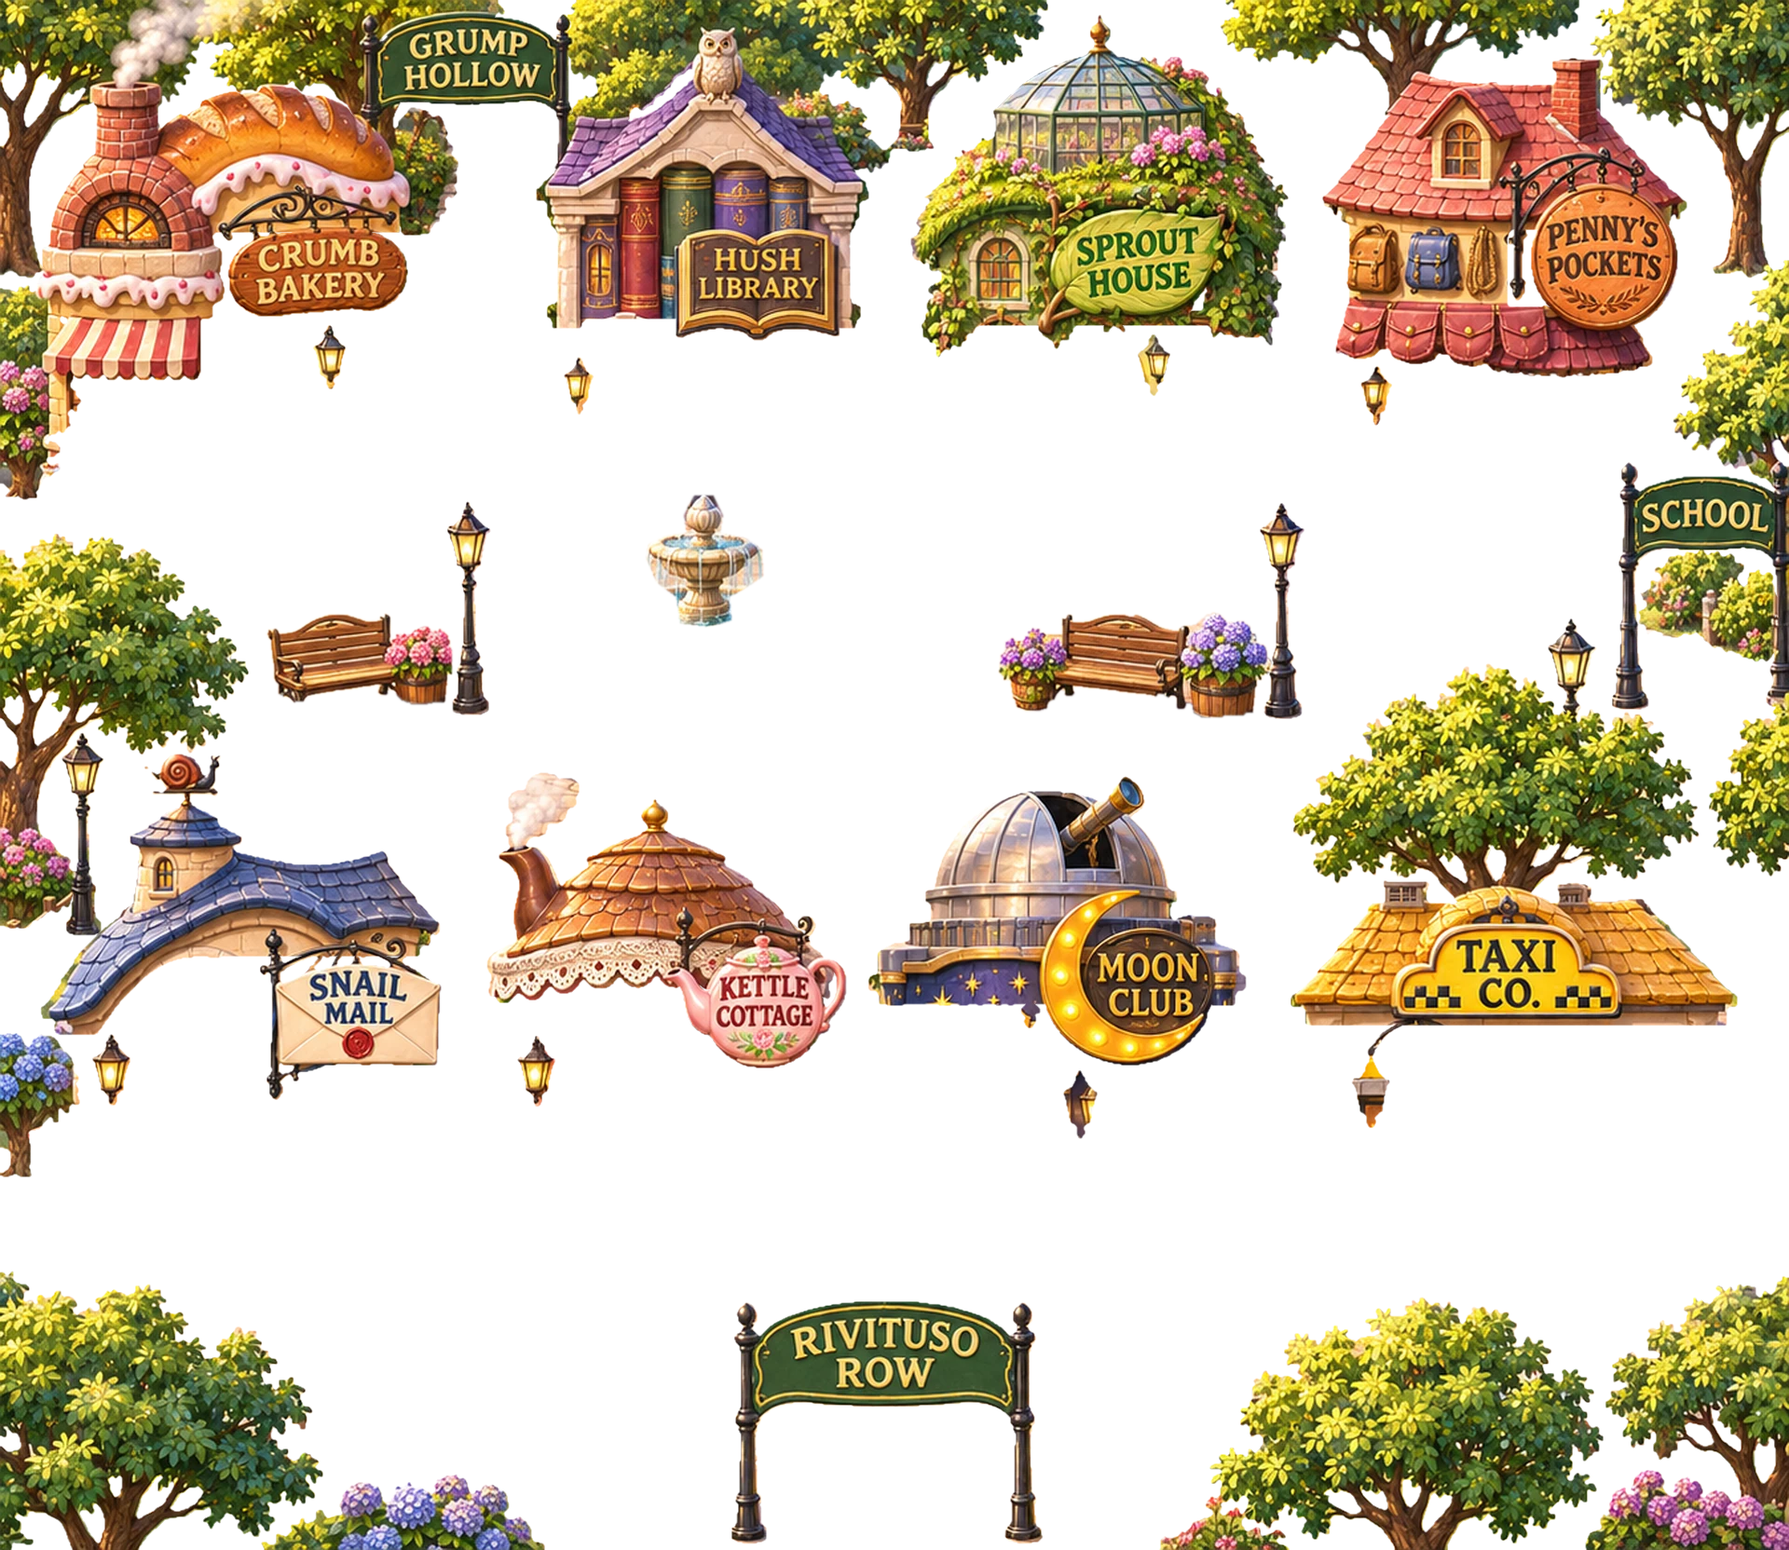
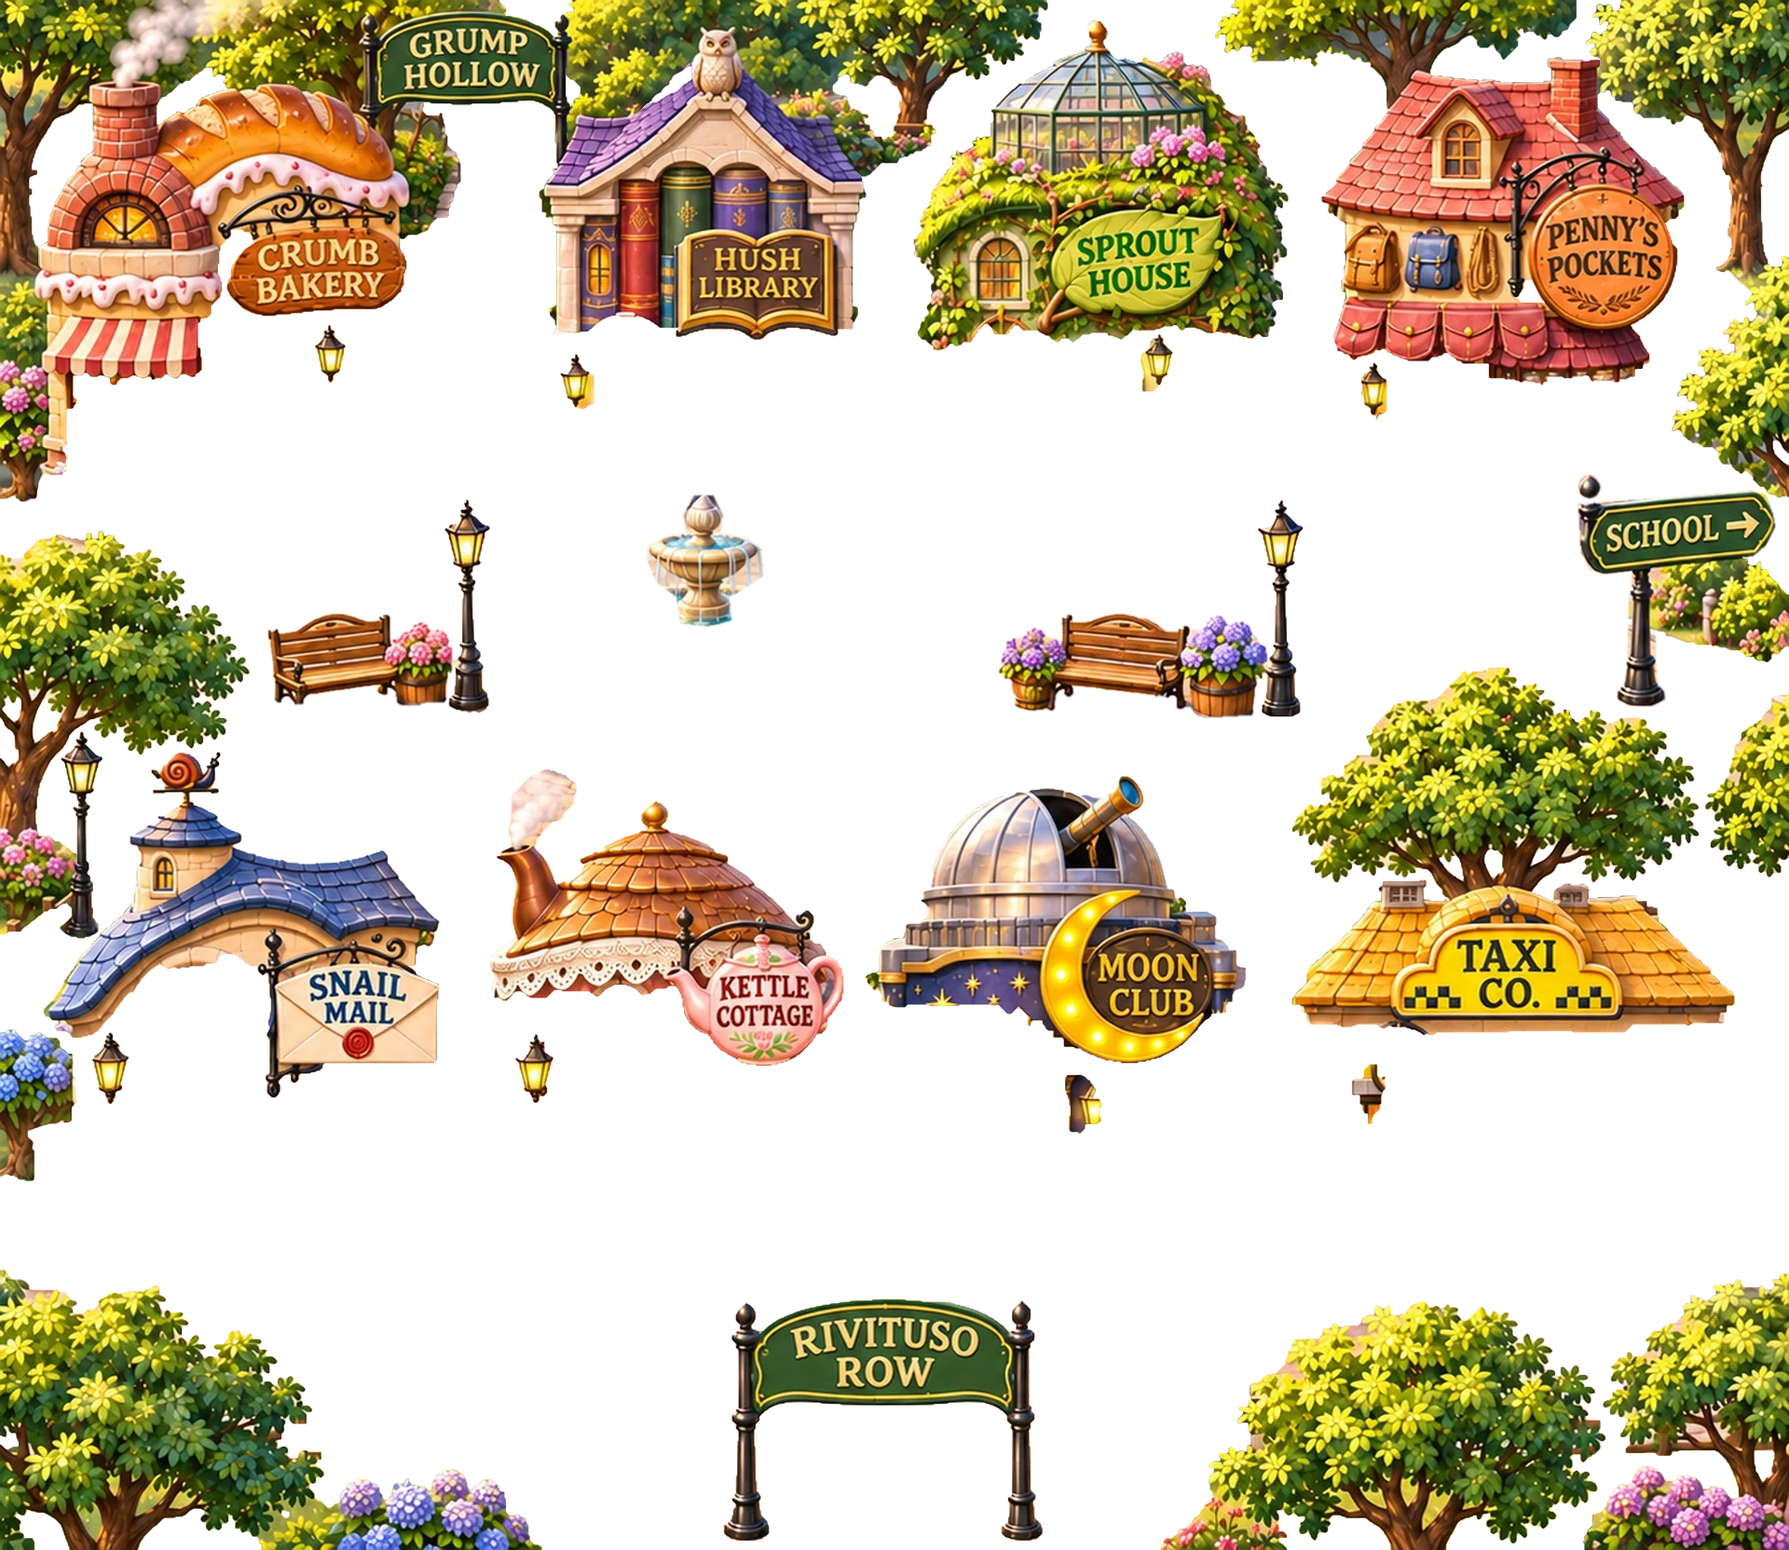
square4: install Tom's replacement Square painting, re-cut walk-behind layer against it
Claude-Session: https://claude.ai/code/session_01RXeukGA7yL3RwA2emer2yB

diff --git a/engine/plate.js b/engine/plate.js
@@ -1,7 +1,7 @@
 'use strict';
 // engine/plate.js — Painted "plate" scenes (32-bit look). A plate replaces the tile/house/object
 // drawing for one map; the tile grid stays as the invisible logic layer (collision, doors, exits, NPCs).
-const PLATES={ town:{src:'art/town.webp?v=square3',fgSrc:'art/town-fg.webp?v=square3',px:64,img:null,ready:false}, row:{src:'art/row.webp?v=20261030c',px:64,img:null,ready:false}, hollow:{src:'art/hollow.webp?v=20261030d',px:64,img:null,ready:false}, reeds:{src:'art/reeds.webp',px:64,img:null,ready:false}, amyhouse:{src:'art/amyhouse.webp?v=20261030',px:78,img:null,ready:false,square:true,actorScale:1.08,fgSrc:'art/amyhouse-fg.webp?v=amyhouse3d'}, grands:{src:'art/grands.webp?v=20261030',px:78,img:null,ready:false,square:true,fgSrc:'art/grands-fg.webp?v=grands3d'}, elliehouse:{src:'art/elliehouse.webp?v=20261030',px:78,img:null,ready:false,square:true,actorScale:1.98}, sundial:{src:'art/sundial.webp',px:64,img:null,ready:false}, school:{src:'art/school.webp',px:64,img:null,ready:false}, cafetorium:{src:'art/cafetorium.webp',px:64,img:null,ready:false}, readroom:{src:'art/readroom.webp',px:64,img:null,ready:false}, stacks:{src:'art/stacks.webp',px:64,img:null,ready:false}, moonclub:{src:'art/moonclub.webp',px:64,img:null,ready:false}, dome:{src:'art/dome.webp',px:64,img:null,ready:false}, gatezero:{src:'art/gatezero.webp',px:64,img:null,ready:false}, library:{src:'art/library.webp?v=20261030',px:78,img:null,ready:false,square:true}, terminal:{src:'art/terminal.webp',px:64,img:null,ready:false}, bakery:{src:'art/bakery.webp?v=20261030',px:78,img:null,ready:false,square:true}, greenhouse:{src:'art/greenhouse.webp?v=20261030',px:78,img:null,ready:false,square:true}, shop:{src:'art/shop.webp?v=20261030',px:78,img:null,ready:false,square:true}, observatory:{src:'art/observatory.webp?v=20261030',px:78,img:null,ready:false,square:true}, post:{src:'art/post.webp?v=20261030',px:78,img:null,ready:false,square:true}, tea:{src:'art/tea.webp?v=20261030',px:78,img:null,ready:false,square:true}, jpark:{src:'art/jpark.webp?v=20261029',px:64,img:null,ready:false}, griffith:{src:'art/griffith.webp',px:64,img:null,ready:false}, taxi:{src:'art/taxi.webp?v=20261030',px:78,img:null,ready:false,square:true}, blvd:{src:'art/blvd.webp?v=20261031d',px:64,img:null,ready:false} };
+const PLATES={ town:{src:'art/town.webp?v=square4',fgSrc:'art/town-fg.webp?v=square4',px:64,img:null,ready:false}, row:{src:'art/row.webp?v=20261030c',px:64,img:null,ready:false}, hollow:{src:'art/hollow.webp?v=20261030d',px:64,img:null,ready:false}, reeds:{src:'art/reeds.webp',px:64,img:null,ready:false}, amyhouse:{src:'art/amyhouse.webp?v=20261030',px:78,img:null,ready:false,square:true,actorScale:1.08,fgSrc:'art/amyhouse-fg.webp?v=amyhouse3d'}, grands:{src:'art/grands.webp?v=20261030',px:78,img:null,ready:false,square:true,fgSrc:'art/grands-fg.webp?v=grands3d'}, elliehouse:{src:'art/elliehouse.webp?v=20261030',px:78,img:null,ready:false,square:true,actorScale:1.98}, sundial:{src:'art/sundial.webp',px:64,img:null,ready:false}, school:{src:'art/school.webp',px:64,img:null,ready:false}, cafetorium:{src:'art/cafetorium.webp',px:64,img:null,ready:false}, readroom:{src:'art/readroom.webp',px:64,img:null,ready:false}, stacks:{src:'art/stacks.webp',px:64,img:null,ready:false}, moonclub:{src:'art/moonclub.webp',px:64,img:null,ready:false}, dome:{src:'art/dome.webp',px:64,img:null,ready:false}, gatezero:{src:'art/gatezero.webp',px:64,img:null,ready:false}, library:{src:'art/library.webp?v=20261030',px:78,img:null,ready:false,square:true}, terminal:{src:'art/terminal.webp',px:64,img:null,ready:false}, bakery:{src:'art/bakery.webp?v=20261030',px:78,img:null,ready:false,square:true}, greenhouse:{src:'art/greenhouse.webp?v=20261030',px:78,img:null,ready:false,square:true}, shop:{src:'art/shop.webp?v=20261030',px:78,img:null,ready:false,square:true}, observatory:{src:'art/observatory.webp?v=20261030',px:78,img:null,ready:false,square:true}, post:{src:'art/post.webp?v=20261030',px:78,img:null,ready:false,square:true}, tea:{src:'art/tea.webp?v=20261030',px:78,img:null,ready:false,square:true}, jpark:{src:'art/jpark.webp?v=20261029',px:64,img:null,ready:false}, griffith:{src:'art/griffith.webp',px:64,img:null,ready:false}, taxi:{src:'art/taxi.webp?v=20261030',px:78,img:null,ready:false,square:true}, blvd:{src:'art/blvd.webp?v=20261031d',px:64,img:null,ready:false} };
 PLATES.pier={src:'art/pier.webp?v=20261029',px:64,img:null,ready:false};
 PLATES.studio={src:'art/studio.webp?v=20261029',px:64,img:null,ready:false};
 PLATES.backlot={src:'art/backlot.webp?v=20261029',px:64,img:null,ready:false};
@@ -211,30 +211,32 @@ function drawPlateSigns(list) {
 // Zones hold only the tall object, never the ground in front of it. rect: x,y,w,h. ellipse: cx,cy,rx,ry. polygon: pts [[x,y],...].
 // A lamp post as three small shapes (head, pole, foot) so no paving is redrawn beside the pole. cx is the pole centre, y0 the top of the head, base the foot.
 const BLVD_LAMP=(cx,y0,base)=>[{x:cx-20,y:y0,w:40,h:52,base},{x:cx-8,y:y0+50,w:16,h:Math.max(10,base-y0-80),base},{x:cx-22,y:base-34,w:44,h:34,base}];
-const PLATE_BEHIND={ town:[{x:978,y:17,w:404,h:366,base:383,fg:true},
-  {x:337,y:350,w:34,h:67,base:417,fg:true},
-  {x:1222,y:359,w:33,h:66,base:425,fg:true},
-  {x:606,y:384,w:30,h:61,base:445,fg:true},
-  {x:1461,y:394,w:33,h:62,base:456,fg:true},
-  {x:0,y:0,w:1125,h:536,base:536,fg:true},
+const PLATE_BEHIND={ town:[{x:981,y:22,w:402,h:354,base:376,fg:true},
+  {x:338,y:349,w:32,h:63,base:412,fg:true},
+  {x:1224,y:359,w:34,h:61,base:420,fg:true},
+  {x:602,y:381,w:35,h:58,base:439,fg:true},
+  {x:1461,y:390,w:28,h:61,base:451,fg:true},
+  {x:1694,y:510,w:24,h:25,base:535,fg:true},
+  {x:0,y:0,w:1125,h:539,base:539,fg:true},
   {x:694,y:532,w:125,h:141,base:673,fg:true},
-  {x:287,y:659,w:198,h:97,base:756,fg:true},
-  {x:480,y:539,w:46,h:228,base:767,fg:true},
-  {x:1072,y:541,w:327,h:230,base:771,fg:true},
-  {x:1310,y:0,w:610,h:940,base:940,fg:true},
-  {x:932,y:834,w:405,h:310,base:1144,fg:true},
-  {x:523,y:830,w:385,h:316,base:1146,fg:true},
-  {x:0,y:573,w:473,h:607,base:1180,fg:true},
-  {x:100,y:1111,w:40,h:75,base:1186,fg:true},
-  {x:556,y:1113,w:40,h:75,base:1188,fg:true},
-  {x:1385,y:665,w:479,h:546,base:1211,fg:true},
-  {x:1142,y:1150,w:35,h:72,base:1222,fg:true},
-  {x:0,y:1109,w:85,h:154,base:1263,fg:true},
-  {x:785,y:1397,w:334,h:260,base:1657,fg:true},
-  {x:0,y:1366,w:346,h:298,base:1664,fg:true},
-  {x:281,y:1584,w:303,h:80,base:1664,fg:true},
-  {x:1245,y:1393,w:475,h:271,base:1664,fg:true},
-  {x:1702,y:1371,w:218,h:293,base:1664,fg:true}]
+  {x:1304,y:0,w:616,h:758,base:758,fg:true},
+  {x:288,y:536,w:238,h:229,base:765,fg:true},
+  {x:1072,y:537,w:326,h:233,base:770,fg:true},
+  {x:1830,y:745,w:90,h:197,base:942,fg:true},
+  {x:0,y:570,w:268,h:437,base:1007,fg:true},
+  {x:1387,y:717,w:475,h:394,base:1111,fg:true},
+  {x:929,y:833,w:408,h:308,base:1141,fg:true},
+  {x:526,y:826,w:379,h:318,base:1144,fg:true},
+  {x:47,y:808,w:425,h:370,base:1178,fg:true},
+  {x:553,y:1111,w:41,h:73,base:1184,fg:true},
+  {x:99,y:1109,w:39,h:76,base:1185,fg:true},
+  {x:1451,y:1143,w:36,h:64,base:1207,fg:true},
+  {x:1143,y:1154,w:39,h:62,base:1216,fg:true},
+  {x:0,y:1106,w:83,h:162,base:1268,fg:true},
+  {x:777,y:1395,w:342,h:259,base:1654,fg:true},
+  {x:0,y:1363,w:582,h:301,base:1664,fg:true},
+  {x:1246,y:1398,w:477,h:266,base:1664,fg:true},
+  {x:1699,y:1368,w:221,h:296,base:1664,fg:true}]
 ,
 // DOWNTOWN LA: the JEFFERSON PARK arch (board and both posts with their globe lamps), so Tom walks behind the posts and under the board.
 blvd:[

diff --git a/index.html b/index.html
@@ -1246,7 +1246,7 @@ document.addEventListener('click',function(e){var n=e.target.closest&&e.target.c
 <script src="data/ch18-monsters.js"></script>
 <script src="data/ch19-monsters.js"></script>
 <script src="data/ch20-monsters.js"></script>
-<script src="data/maps-le.js?v=square3"></script>
+<script src="data/maps-le.js?v=square4"></script>
 <script src="data/maps-p2.js?v=walk1"></script>
 <script src="data/maps-ch13.js?v=dtla3"></script>
 <script src="data/maps-ch17.js?v=dtla3"></script>
@@ -1476,7 +1476,7 @@ document.addEventListener('click',function(e){var n=e.target.closest&&e.target.c
 <script src="engine/club-render.js"></script>
 <script src="engine/terminal-render.js"></script>
 <script src="engine/infinity-render.js"></script>
-<script src="engine/plate.js?v=square3"></script>
+<script src="engine/plate.js?v=square4"></script>
 <script src="engine/draw.js?v=scroll1"></script>
 <script src="engine/intro.js?v=size3"></script>
 <script src="data/flight-art.js?v=fl2"></script>
@@ -1524,7 +1524,7 @@ document.addEventListener('click',function(e){var n=e.target.closest&&e.target.c
 <script src="engine/local-clips.js?v=bake1"></script>
 <script src="engine/dialog-auto.js"></script>
 <script src="engine/tapwalk.js?v=wind1"></script><!-- tap to walk -->
-<script src="engine/main.js?v=square3"></script>
+<script src="engine/main.js?v=square4"></script>
 <script src="engine/music.js"></script>
 <script src="data/songs.js"></script>
 <script src="engine/music-clips.js"></script>

diff --git a/engine/painted.js b/engine/painted.js
@@ -10,7 +10,7 @@
 //
 // Atlas: one image of equally sized frames at K times the rows' resolution (K = 2 in battle, 3 on the overworld).
 // ART_V: cache tag for every painted atlas image (2026-11-01, heads1: all adult battle heads re-baked).
-const ART_V='square3';
+const ART_V='square4';
 const PAINTED={};
 function paintedAtlas(id,src,rects,k,tintFn) {
   const a={id,rects,k,tintFn,img:new Image(),ready:false,failed:false};

diff --git a/engine/main.js b/engine/main.js
@@ -83,7 +83,7 @@ startSplash();
 (function(){
   const sp=document.getElementById('splash'); if(!sp) return;
   const d=document.createElement('div');
-  d.textContent='build square3';
+  d.textContent='build square4';
   d.style.cssText='position:absolute;left:8px;bottom:4px;font:10px monospace;color:#fff;opacity:.45;pointer-events:none;z-index:50';
   sp.appendChild(d);
 })();

diff --git a/tools/make_town_fg.py b/tools/make_town_fg.py
@@ -15,22 +15,49 @@ REF = os.path.join(ROOT, 'docs/reference/town_v3_masks')
 PW, PH = 1920, 1664
 plate = cv2.cvtColor(np.array(Image.open(os.path.join(ROOT, 'art/town.webp')).convert('RGB')), cv2.COLOR_RGB2BGR)
 
+NW, NH = 1347, 1168                      # native size of Tom's painting (docs/reference/town_v4_from_tom.png)
+native = cv2.imread(os.path.join(ROOT, 'docs/reference/town_v4_from_tom.png'))
+SX, SY = PW / NW, PH / NH
+DROP = {'posts': [(1150, 330, 1347, 560)]}   # the old east gate posts: the v4 painting has a different SCHOOL sign, cut by hand below
+
 def keep_from_mask(name):
-    m = np.array(Image.open(os.path.join(REF, name + '.webp')).convert('RGB')).astype(int)
-    m = cv2.resize(m.astype(np.uint8), (1347, 1167), interpolation=cv2.INTER_AREA).astype(int)   # the masks are 1347 x 1167 or 1168 tall
+    """Generator mask -> rough keep area (native px), then GrabCut snaps each piece's edge to the real painting inside a +-6 px band."""
+    m = np.array(Image.open(os.path.join(REF, name + '.webp')).convert('RGB'))
+    m = cv2.resize(m, (NW, NH), interpolation=cv2.INTER_AREA).astype(int)
     d = np.sqrt((m[..., 0] - 255) ** 2 + m[..., 1] ** 2 + (m[..., 2] - 255) ** 2)
     k = (d > 95).astype(np.uint8) * 255
     k = cv2.morphologyEx(k, cv2.MORPH_OPEN, np.ones((2, 2), np.uint8))
-    n, lab, st, _ = cv2.connectedComponentsWithStats(k)           # drop specks
+    n, lab, st, cen = cv2.connectedComponentsWithStats(k)           # drop specks and dropped regions
     for i in range(1, n):
-        if st[i, cv2.CC_STAT_AREA] < 60: k[lab == i] = 0
+        cx, cy = cen[i]
+        if st[i, cv2.CC_STAT_AREA] < 60 or any(x0 <= cx <= x1 and y0 <= cy <= y1 for x0, y0, x1, y1 in DROP.get(name, [])): k[lab == i] = 0
     inv = cv2.bitwise_not(k); n, lab, st, _ = cv2.connectedComponentsWithStats(inv)   # fill pin holes inside objects
     for i in range(1, n):
         if st[i, cv2.CC_STAT_AREA] < 40: k[lab == i] = 255
-    k = cv2.erode(k, cv2.getStructuringElement(cv2.MORPH_CROSS, (3, 3)))              # 1 px in: no paving or wall at the rim
-    a = cv2.GaussianBlur(k.astype(np.float32) / 255, (0, 0), .8)
+    out = np.zeros((NH, NW), np.uint8)
+    grp = cv2.dilate(k, np.ones((5, 5), np.uint8)); n, lab, st, _ = cv2.connectedComponentsWithStats(grp)
+    for i in range(1, n):
+        x, y, w, h, area = st[i]
+        if area < 150: continue
+        P = 14; X0, Y0, X1, Y1 = max(0, x - P), max(0, y - P), min(NW, x + w + P), min(NH, y + h + P)
+        comp = (((lab == i) & (k > 0))[Y0:Y1, X0:X1]).astype(np.uint8) * 255
+        band = cv2.dilate(comp, cv2.getStructuringElement(cv2.MORPH_ELLIPSE, (13, 13)))
+        sure = cv2.erode(comp, cv2.getStructuringElement(cv2.MORPH_ELLIPSE, (7, 7)))
+        if sure.sum() == 0: sure = cv2.erode(comp, np.ones((3, 3), np.uint8))
+        gm = np.full(comp.shape, cv2.GC_BGD, np.uint8); gm[band > 0] = cv2.GC_PR_BGD; gm[comp > 0] = cv2.GC_PR_FGD; gm[sure > 0] = cv2.GC_FGD
+        crop = native[Y0:Y1, X0:X1].copy()
+        try:
+            cv2.grabCut(crop, gm, None, np.zeros((1, 65)), np.zeros((1, 65)), 4, cv2.GC_INIT_WITH_MASK)
+            r = np.where((gm == 1) | (gm == 3), 255, 0).astype(np.uint8)
+        except cv2.error: r = comp
+        r = cv2.morphologyEx(r, cv2.MORPH_CLOSE, np.ones((3, 3), np.uint8))
+        nn, ll, ss, _ = cv2.connectedComponentsWithStats(r)          # keep the pieces that overlap the mask, drop islands
+        for j in range(1, nn):
+            if ss[j, cv2.CC_STAT_AREA] < 30 or (comp[ll == j] > 0).mean() < .3: r[ll == j] = 0
+        out[Y0:Y1, X0:X1] = np.maximum(out[Y0:Y1, X0:X1], r)
+    a = cv2.GaussianBlur(out.astype(np.float32) / 255, (0, 0), .7)
     a = cv2.resize(a, (PW, PH), interpolation=cv2.INTER_CUBIC)
-    return np.clip((a - .2) / .6, 0, 1)
+    return np.clip((a - .25) / .5, 0, 1)
 
 alpha = np.zeros((PH, PW), np.float32)
 for name in ('trees', 'posts', 'roofs'): alpha = np.maximum(alpha, keep_from_mask(name))
@@ -49,7 +76,7 @@ def grabcut(box, pad=16, it=6):
     return out
 HAND = json.load(open(os.path.join(ROOT, 'tools/town_fg_hand.json'))) if os.path.exists(os.path.join(ROOT, 'tools/town_fg_hand.json')) else {'grabcut': [], 'polys': []}
 for box in HAND['grabcut']: alpha = np.maximum(alpha, grabcut(box))
-for pts in HAND['polys']:
+for pts in HAND['polys'] + [[[x * SX, y * SY] for x, y in p] for p in HAND.get('native_polys', [])]:
     m = np.zeros((PH, PW), np.uint8); cv2.fillPoly(m, [np.array(pts, np.int32)], 255)
     alpha = np.maximum(alpha, cv2.GaussianBlur(m.astype(np.float32) / 255, (0, 0), .9))
 

diff --git a/tools/make_town_mask.py b/tools/make_town_mask.py
@@ -30,7 +30,6 @@ FOOT = [  # x0, y0, x1, base y, in art px; a tile is blocked when its foot point
     (290, 740, 480, 755),    # west bench and its barrel
     (1075, 745, 1360, 765),  # east bench and its two barrels
     (1741, 731, 1769, 750),  # SCHOOL gate, west post
-    (1886, 731, 1914, 750),  # SCHOOL gate, east post
 ]
 FOUNTAIN = (742, 745, 200, 105)  # centre x, centre y, half width, half height of the basin footprint
 KEEP = [(28, 11), (29, 11)]      # gate lane tiles that stay open (the posts stand just north of them)

diff --git a/docs/CHANGES.md b/docs/CHANGES.md
@@ -1,3 +1,11 @@
+## 2026-11-02 (morning, 70): Tom's replacement Square painting installed (`square4`)
+
+- Tom sent a new Square painting with "Use this instead". Same layout as `square3` (the walk map and doors are unchanged, checked row by row), new fine detail, and a new SCHOOL arrow sign on one post at the east gate. Original kept at docs/reference/town_v4_from_tom.png; art/town.webp is it scaled to 1920 x 1664.
+- Cutouts: the three generator mask pictures from `square3` still fit, but they were drawn from the old painting, so tools/make_town_fg.py now uses each as a rough area and snaps every piece's edge to the new painting with GrabCut (+-6 px band). The old east gate posts are dropped; the new SCHOOL sign, its post and finial are hand polygons (`native_polys` in tools/town_fg_hand.json). 26 walk-behind zones in `PLATE_BEHIND.town`.
+- Walk map: the second east gate post is gone from tools/make_town_mask.py (no change in the rows).
+- Tested: reach_test town 0 fails, smoke and camera_clamp FAILS: [], portrait and landscape walk-behind shots (tools/town_behind_shots.py). Not seen on the phone.
+- Tags: ART_V, `plate.js`, `maps-le.js`, `main.js` `?v=square4`, stamp `build square4`, town plate and fg `?v=square4`.
+
 ## 2026-11-01 (night, 69): the approved v3 Square is in, with doors, walk map and cutouts (`square3`)
 
 - Tom sent the approved Long Island Square painting and four generator mask pictures. Installed per claude/square-v3-install.md.

diff --git a/docs/AREA_PAINTINGS.md b/docs/AREA_PAINTINGS.md
@@ -6,7 +6,7 @@ Tom is redoing every Long Island outdoor area as a new painting, one area at a t
 
 | Map id | Name | Tiles | Plate size (art px, 64 per tile) | Painting now in the game |
 |---|---|---|---|---|
-| town | The Square | 30 x 26 | 1920 x 1664 | Tom's approved v3 painting (2026-11-01, `square3`), lettered by the generator, own cutout layer art/town-fg.webp |
+| town | The Square | 30 x 26 | 1920 x 1664 | Tom's approved v4 painting (2026-11-02, `square4`), lettered by the generator, own cutout layer art/town-fg.webp |
 | row | Rivituso Row | 24 x 22 | 1536 x 1408 | Tom's v2 painting, boards repainted in code, game-drawn lettering (disliked) |
 | hollow | Grump Hollow | 24 x 22 | 1536 x 1408 | Tom's v2 painting, game-drawn lettering (disliked) |
 | pier | Cattail Pier | 24 x 22 | 1536 x 1408 | original painting, not redone yet |
